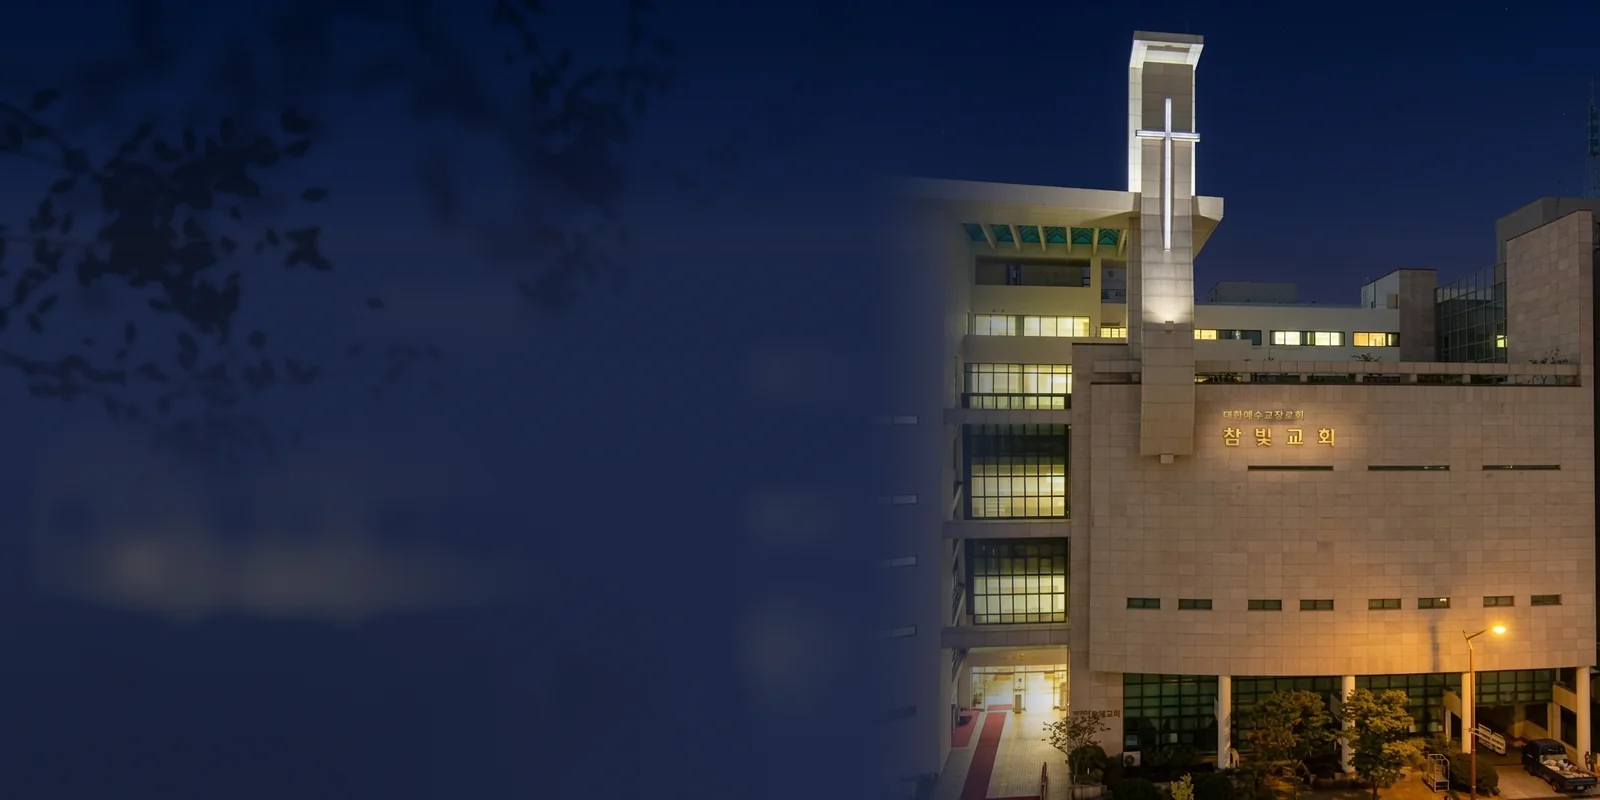
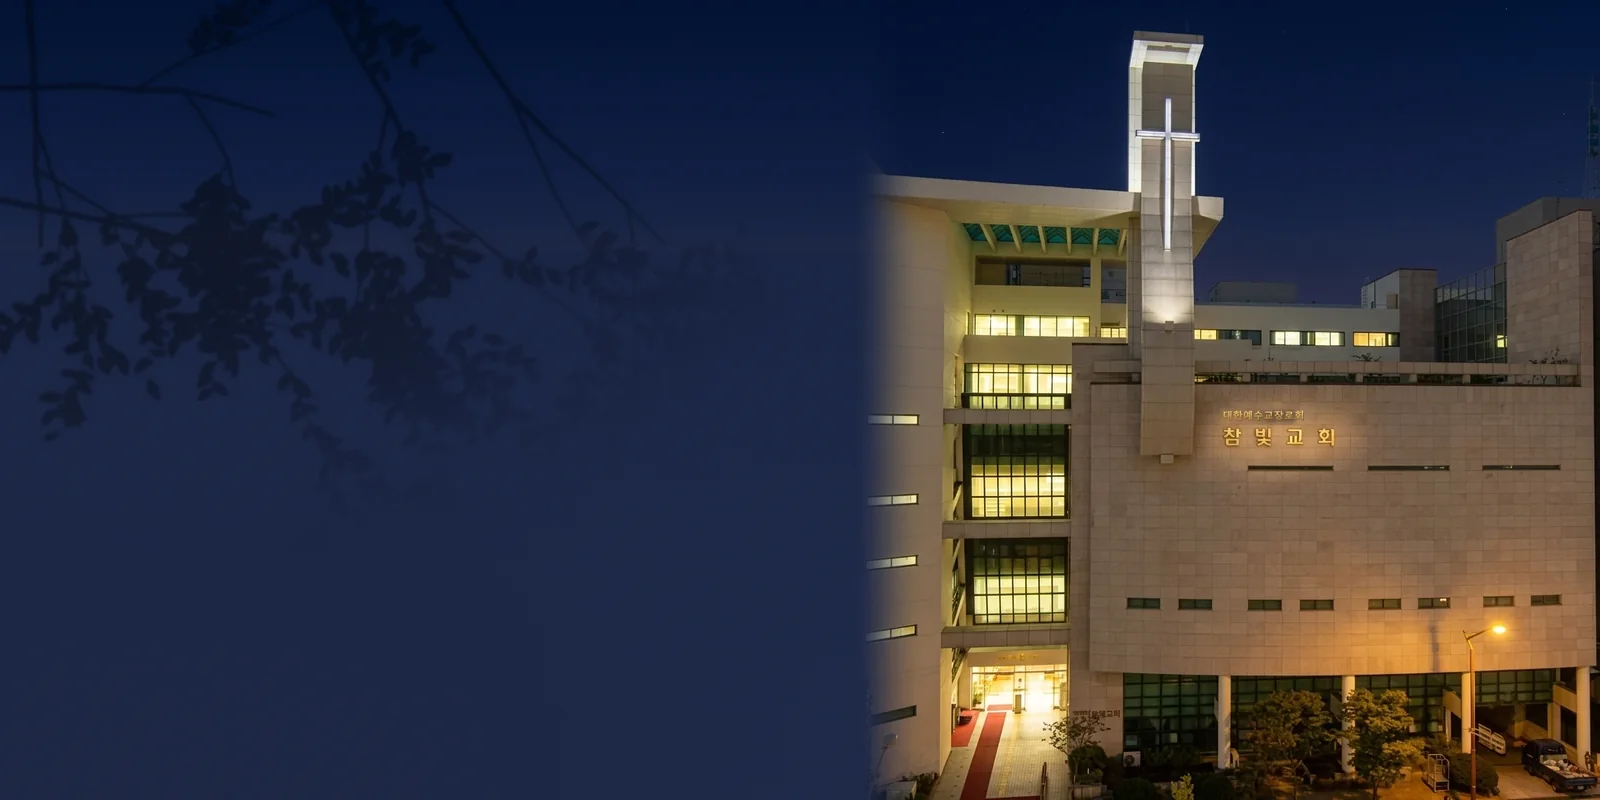
오시는길 마지막개선

diff --git a/frontend/src/pages/Visit/Visit.css b/frontend/src/pages/Visit/Visit.css
@@ -117,8 +117,8 @@
 }
 .dark .visit-hero.has-photo .visit-hero-scrim {
   background:
-    linear-gradient(to top, rgba(6, 14, 36, 0.42) 0%, rgba(6, 14, 36, 0.18) 38%, transparent 68%),
-    linear-gradient(100deg, rgba(6, 14, 36, 0.3) 0%, rgba(6, 14, 36, 0.1) 42%, transparent 64%);
+    linear-gradient(to top, rgba(6, 14, 36, 0.4) 0%, rgba(6, 14, 36, 0.16) 38%, transparent 66%),
+    linear-gradient(100deg, rgba(6, 14, 36, 0.12) 0%, transparent 45%);
 }
 /* 안쪽 흰 링 — 유리 액자. 아주 옅게만: 라이트는 흰 페이지 위라 거의 안 보이고,
    다크는 밤하늘 위에서 선이 도드라지지 않을 만큼만 */

diff --git a/frontend/scripts/build_visit_hero.py b/frontend/scripts/build_visit_hero.py
@@ -23,79 +23,99 @@ SRC = {
 }
 W, H = 1600, 800
 CROP_L = 44          # 원본 왼쪽 끝의 이웃 건물 잘라냄
-FEATHER = 260        # 교회 왼쪽 가장자리를 하늘로 녹이는 폭(캔버스 px)
+FEATHER = 72         # 교회 왼쪽 가장자리를 하늘로 녹이는 폭(캔버스 px). 260이면 왼쪽 동(약 140px)이 통째로 사라지고,
+                     # 120도 왼쪽 동 창이 반쯤 가려 '사진을 덜 가리게' 피드백 → 좁게
 SKY_X = (540, 600)   # 순수 하늘 샘플 열(원본 좌표, 십자가 탑 오른쪽)
 SKY_Y = 330          # 이 행까지가 순수 하늘
 # 지평선 쪽 외삽 감쇠 — 낮은 옅게 밝아져도 자연스럽지만 밤은 남색을 지켜야 회보라로 바래지 않는다
-DAMP = {'day': 0.35, 'night': 0.10}
+DAMP = {'day': 0.05, 'night': 0.10}   # 낮 0.35는 왼쪽 아래가 희게 바래 오른쪽 사진 하늘과 색이 안 맞았다(2026-09-03)
+FLATTEN = {'day': 0.35, 'night': 0.0}   # 밤 0.45는 위쪽이 사진 하늘보다 밝아져 좌우 색이 어긋났다(2026-09-03)
 # 먼 도시 보케: zoom=캔버스 높이 대비 확대, blur=흐림 반경, hi_from 이상 밝기만 점광(glow·warm 색),
-# lo_to 이하 어둠은 shade 만큼 눌러 건물 실루엣
+# lo_to 이하 어둠은 shade 만큼 눌러 건물 실루엣. 2026-09-03 현재 glow·shade=0 으로 꺼둠 —
+# 흐린 띠가 '얼룩'으로 읽힌다는 피드백. 레퍼런스처럼 깨끗한 하늘 + 잎 실루엣만 쓴다
 BOKEH = {
-    'day': dict(zoom=1.4, blur=30, hi_from=0.80, glow=0.0, warm=(255, 250, 235), lo_to=0.45, shade=0.04),
-    'night': dict(zoom=1.4, blur=16, hi_from=0.40, glow=0.5, warm=(214, 178, 118), lo_to=0.16, shade=0.26),
+    'day': dict(zoom=1.4, blur=30, hi_from=0.80, glow=0.0, warm=(255, 250, 235), lo_to=0.45, shade=0.0),
+    'night': dict(zoom=1.4, blur=26, hi_from=0.45, glow=0.0, warm=(214, 178, 118), lo_to=0.16, shade=0.0),
 }
 # 잎 실루엣: rx·ry=왼쪽 위 기준 타원 마스크 반경(화면 비율), alpha=최대 농도, darken=실루엣 색(하늘색×배율)
 FOLIAGE = {
-    'day': dict(rx=0.58, ry=0.70, alpha=0.55, darken=0.80, vignette=0.06),
-    'night': dict(rx=0.58, ry=0.70, alpha=0.92, darken=0.50, vignette=0.22),
+    'day': dict(rx=0.62, ry=0.80, alpha=0.0, darken=0.80, vignette=0.06),   # 라이트는 나무 없이 파란 하늘만(사용자 결정)
+    'night': dict(rx=0.62, ry=0.80, alpha=0.82, darken=0.52, vignette=0.07),
 }
 
 def foliage_mask(w, h, seed=0):
-    """왼쪽 위 모서리에서 늘어지는 가지+잎 실루엣(0~1 마스크). 두 겹(앞:많이 흐림, 중간:조금 흐림)."""
+    """왼쪽 위에서 늘어진 나뭇가지 실루엣(0~1 마스크).
+    가지는 재귀로 뻗고(중력 방향으로 살짝 처짐), 끝가지마다 잎을 어긋나게 단다.
+    2배 해상도로 그려 축소해 잎 가장자리를 매끈하게, 흐림은 아주 약하게 — 잎이 '잎'으로 읽혀야 한다
+    (덩어리를 세게 흐리면 얼룩처럼 보인다는 피드백 2026-09-03)."""
     rng = np.random.default_rng(seed)
+    S = 2
+    img = Image.new('L', (w * S, h * S), 0)
+    d = ImageDraw.Draw(img)
 
-    def bezier(p0, p1, p2, n=40):
-        t = np.linspace(0, 1, n)[:, None]
-        return (1 - t) ** 2 * p0 + 2 * (1 - t) * t * p1 + t ** 2 * p2
+    def leaf(cx, cy, ang, ln):
+        # 잎: 끝이 뾰족한 렌즈꼴 + 살짝 비대칭. ln=잎 길이(px, 2배 해상도 기준)
+        tt = np.linspace(0, 2 * np.pi, 18)
+        ex = ln / 2 * np.cos(tt)
+        ey = ln * 0.24 * np.sin(tt) * (1 - 0.35 * np.abs(np.cos(tt))) * (1 + 0.15 * np.sin(tt))
+        ca, sa = np.cos(ang), np.sin(ang)
+        d.polygon([(cx + ln / 2 * ca + ex[j] * ca - ey[j] * sa, cy + ln / 2 * sa + ex[j] * sa + ey[j] * ca) for j in range(len(tt))], fill=255)
 
-    def draw_layer(n_branches, leaf_r, blur, width):
-        img = Image.new('L', (w, h), 0)
-        d = ImageDraw.Draw(img)
-        for _ in range(n_branches):
-            # 시작점: 위쪽 가장자리(왼쪽 55%) 또는 왼쪽 가장자리(위 60%)
-            if rng.random() < 0.6:
-                p0 = np.array([rng.uniform(-0.05, 0.55) * w, rng.uniform(-0.08, 0.02) * h])
-                ang = rng.uniform(np.pi * 0.25, np.pi * 0.75)     # 아래쪽으로
-            else:
-                p0 = np.array([rng.uniform(-0.06, 0.0) * w, rng.uniform(0.0, 0.6) * h])
-                ang = rng.uniform(-np.pi * 0.25, np.pi * 0.35)    # 오른쪽으로
-            length = rng.uniform(0.28, 0.5) * h
-            p2 = p0 + length * np.array([np.cos(ang), np.sin(ang)])
-            p1 = (p0 + p2) / 2 + rng.normal(0, 0.12 * length, 2)
-            pts = bezier(p0, p1, p2)
-            for i in range(len(pts) - 1):
-                wd = max(1, width * (1 - i / len(pts)))
-                d.line([tuple(pts[i]), tuple(pts[i + 1])], fill=255, width=int(wd))
-            # 잔가지
-            for _ in range(rng.integers(2, 4)):
-                k = rng.integers(len(pts) // 4, len(pts) - 2)
-                q0 = pts[k]
-                a2 = ang + rng.uniform(-0.9, 0.9)
-                l2 = length * rng.uniform(0.25, 0.5)
-                q2 = q0 + l2 * np.array([np.cos(a2), np.sin(a2)])
-                q1 = (q0 + q2) / 2 + rng.normal(0, 0.12 * l2, 2)
-                sub = bezier(q0, q1, q2, 20)
-                for i in range(len(sub) - 1):
-                    d.line([tuple(sub[i]), tuple(sub[i + 1])], fill=255, width=max(1, int(width * 0.45 * (1 - i / 20))))
-                pts = np.concatenate([pts, sub])
-            # 잎: 가지를 따라 무리로
-            for c in pts[::3]:
-                if rng.random() < 0.55:
+    def grow(p, ang, length, depth, width):
+        pts = [p]
+        n = 7
+        a = ang
+        for i in range(n):
+            a += rng.normal(0, 0.10) + 0.035 * np.cos(a)   # 중력: 아래로 살짝 처짐
+            q = pts[-1] + (length / n) * np.array([np.cos(a), np.sin(a)])
+            d.line([tuple(pts[-1] * S), tuple(q * S)], fill=255, width=max(1, int(width * S * (1 - 0.5 * i / n))))
+            pts.append(q)
+        pts = np.array(pts)
+        if depth >= 2:
+            # 잎: 가지를 따라 어긋나게, 잎은 가지 방향에서 벌어지고 아래로 살짝 처진다
+            step = 7
+            total = length
+            k = 0
+            for t in np.arange(0, total, step):
+                idx = min(int(t / total * n), n - 1)
+                seg = pts[idx + 1] - pts[idx]
+                sa_ = np.arctan2(seg[1], seg[0])
+                base = pts[idx] + seg * ((t / total * n) - idx)
+                side = 1 if k % 2 == 0 else -1
+                k += 1
+                if rng.random() < 0.45:
                     continue
-                for _ in range(rng.integers(2, 6)):
-                    cx, cy = c + rng.normal(0, leaf_r * 1.6, 2)
-                    rr = leaf_r * rng.uniform(0.6, 1.3)
-                    th = rng.uniform(0, np.pi)
-                    # 잎 모양: 양끝이 뾰족한 렌즈꼴 폴리곤
-                    tt = np.linspace(0, 2 * np.pi, 14)
-                    ex, ey = rr * np.cos(tt), rr * 0.45 * np.sin(tt) * (1 - 0.25 * np.abs(np.cos(tt)))
-                    poly = [(cx + ex[j] * np.cos(th) - ey[j] * np.sin(th), cy + ex[j] * np.sin(th) + ey[j] * np.cos(th)) for j in range(len(tt))]
-                    d.polygon(poly, fill=255)
-        return np.asarray(img.filter(ImageFilter.GaussianBlur(blur))).astype(np.float32) / 255
+                la = sa_ + side * rng.uniform(0.55, 1.15) + 0.25 * rng.normal()
+                ln = rng.uniform(16, 26) * S
+                leaf(base[0] * S, base[1] * S, la, ln)
+                # 잎 무리: 같은 자리에 한두 장 더
+                if rng.random() < 0.3:
+                    leaf(base[0] * S + rng.normal(0, 3) * S, base[1] * S + rng.normal(0, 3) * S,
+                         la + rng.normal(0, 0.5), ln * rng.uniform(0.7, 1.0))
+        if depth < 4:
+            for _ in range(2):
+                t = rng.uniform(0.35, 1.0)
+                idx = min(int(t * n), n - 1)
+                q = pts[idx]
+                seg = pts[idx + 1] - pts[idx] if idx + 1 < len(pts) else pts[idx] - pts[idx - 1]
+                sa_ = np.arctan2(seg[1], seg[0])
+                child_ang = sa_ + rng.choice([-1, 1]) * rng.uniform(0.35, 0.85)
+                grow(q, child_ang, length * rng.uniform(0.55, 0.75), depth + 1, width * 0.6)
 
-    front = draw_layer(3, leaf_r=22, blur=9, width=13)    # 카메라 바로 앞 — 크고 많이 흐림
-    mid = draw_layer(10, leaf_r=12, blur=2.5, width=6)        # 조금 뒤 — 형태가 보임
-    return np.clip(front * 0.7 + mid, 0, 1)
+    # 굵은 가지: 위쪽 가장자리(왼쪽 절반)에서 아래·오른쪽으로, 왼쪽 가장자리에서 오른쪽으로
+    # 가지 수는 성기게 — 우거진 숲이 아니라 모서리에 걸린 가지 몇 개(과하다는 피드백 2026-09-03)
+    for _ in range(3):
+        p0 = np.array([rng.uniform(-0.04, 0.40) * w, rng.uniform(-0.06, -0.01) * h])
+        grow(p0, rng.uniform(np.pi * 0.30, np.pi * 0.62), rng.uniform(0.34, 0.5) * h, 0, 7)
+    for _ in range(2):
+        p0 = np.array([rng.uniform(-0.05, -0.01) * w, rng.uniform(0.02, 0.4) * h])
+        grow(p0, rng.uniform(-0.15, 0.45), rng.uniform(0.34, 0.5) * h, 0, 7)
+
+    m = img.resize((w, h), Image.LANCZOS).filter(ImageFilter.GaussianBlur(1.4))
+    sharp = np.asarray(m).astype(np.float32) / 255
+    # 초점 밖 느낌은 아주 옅은 번짐 한 겹으로만
+    soft = np.asarray(img.resize((w, h), Image.LANCZOS).filter(ImageFilter.GaussianBlur(7))).astype(np.float32) / 255
+    return np.clip(sharp + 0.15 * soft, 0, 1)
 
 
 def smoothstep(t):
@@ -119,6 +139,8 @@ for key, path in SRC.items():
     t = np.arange(rest) / max(rest, 1)
     ext = bot[None, :] + slope[None, :] * (rest * (1 - (1 - t) ** 2) * DAMP[key])[:, None]
     grad = np.clip(np.concatenate([grad, ext], axis=0), 0, 255)
+    # 밤: 지평선 밝은 띠를 눌러 하늘을 고르게(중간이 뿌옇게 밝으면 안개처럼 보인다)
+    grad = grad * (1 - FLATTEN[key]) + grad.mean(axis=0, keepdims=True) * FLATTEN[key]
     canvas = np.repeat(grad[:, None, :], W, axis=1)
 
     # ── 왼쪽 여백을 '심도 흐림 장면'으로: 단색 하늘은 밋밋하다는 피드백(2026-09-03) ──
@@ -146,10 +168,11 @@ for key, path in SRC.items():
     # (2) 초점 밖 잎·가지 실루엣(절차적): 왼쪽 위 모서리에서 늘어진 가지에 잎을 흩뿌리고 흐린다.
     #     사진의 나무를 잘라 쓰면 창문 격자가 딸려와 어색하다(검증됨)
     fl = FOLIAGE[key]
-    sil = foliage_mask(W, H, seed=11)
-    r = np.sqrt((fx / fl['rx']) ** 2 + (fy / fl['ry']) ** 2)
-    sil = sil * (1 - smoothstep((r - 0.5) / 0.5)) * fl['alpha']
-    canvas = canvas * (1 - sil[..., None]) + (canvas * fl['darken']) * sil[..., None]
+    if fl['alpha'] > 0:
+        sil = foliage_mask(W, H, seed=11)
+        r = np.sqrt((fx / fl['rx']) ** 2 + (fy / fl['ry']) ** 2)
+        sil = sil * (1 - smoothstep((r - 0.5) / 0.5)) * fl['alpha']
+        canvas = canvas * (1 - sil[..., None]) + (canvas * fl['darken']) * sil[..., None]
 
     # (3) 글자 자리 바닥·왼쪽 모서리를 살짝 눌러 텍스트가 뜨게
     vig = (1 - fl['vignette'] * smoothstep((fy - 0.45) / 0.55) * (1 - smoothstep((fx - 0.15) / 0.45)))[..., None]
